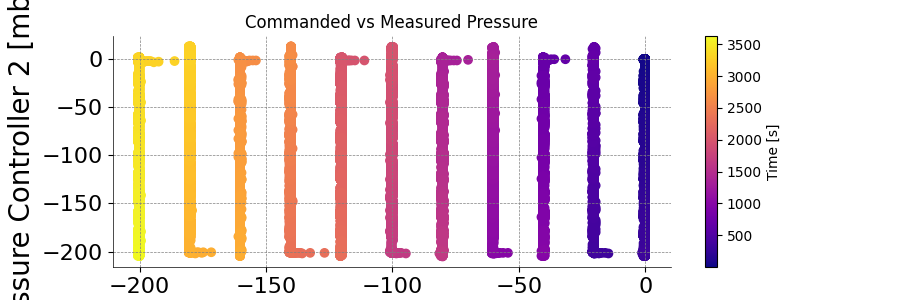
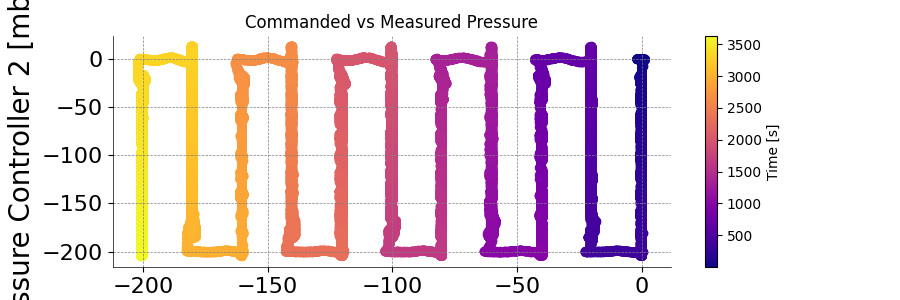
new graphs for asym

diff --git a/Modules/Plot_Client_FN.py b/Modules/Plot_Client_FN.py
@@ -2001,17 +2001,26 @@ def join_all_dp_quadrants(quadrant_1, quadrant_2, quadrant_3, quadrant_4, dp_sen
 
 
 if __name__ == "__main__":
-    folder_path = r'ASYM_CV2_FN-1_8-TUBE_-+_pt_30_stp20'
+    folder_path = r'ASYM_CV2_FN-1_8-TUBE_--_pt_30_stp20'
     plot = Plot(folder_path)
 
-    # quadrant_1 = Plot('FN-1_8-TUBE_++_pt_30')
-    # quadrant_2 = Plot('FN-1_8-TUBE_+-_pt_30')
-    # quadrant_3 = Plot('FN-1_8-TUBE_-+_pt_30')
-    # quadrant_4 = Plot('FN-1_8-TUBE_--_pt_30')
+    quadrant_1 = Plot('ASYM_CV2_FN-1_8-TUBE_--_pt_30_stp20')
+    quadrant_2 = Plot('ASYM_CV2_FN-1_8-TUBE_+-_pt_30_stp20')
+    quadrant_3 = Plot('ASYM_CV2_FN-1_8-TUBE_-+_pt_30_stp20')
+    quadrant_4 = Plot('ASYM_CV2_FN-1_8-TUBE_++_pt_30_stp20')
 
     save = True
     moving_average = 0
     show_plot = True
+# 7. Plot all flow measurements in one graph
+    join_all_dp_quadrants(quadrant_1, quadrant_2, quadrant_3,
+                          quadrant_4, dp_sensor=2, save=save, show_plot=show_plot)
+    # join_all_dp_3D_logic1(quadrant_1, quadrant_2, quadrant_3,
+    #                       quadrant_4, dp_sensor=2, save=save, show_plot=show_plot)
+
+    # save = True
+    # moving_average = 0
+    # show_plot = True
     # join_all_dp_3D_logic1(quadrant_1, quadrant_2, quadrant_3,
     #                       quadrant_4, dp_sensor=2, save=save, show_plot=show_plot)
 
@@ -2020,45 +2029,36 @@ if __name__ == "__main__":
     # quadrant_3 = Plot('CV2_FN-1_8-TUBE_-+_pt_30_stp20')
     # quadrant_4 = Plot('CV2_FN-1_8-TUBE_--_pt_30_stp20')
 
-    # save = True
-    # moving_average = 0
-    # show_plot = True
-    # join_all_dp_3D_logic1(quadrant_1, quadrant_2, quadrant_3,
-    #                       quadrant_4, dp_sensor=2, save=save, show_plot=show_plot)
+# # 1. plot the recorded absolute pressures
+#     plot.double_pressure_controller_command_overview(
+#         save, moving_average, nb_controllers=2, show_plot=show_plot)
 
-# 1. plot the recorded absolute pressures
-    plot.double_pressure_controller_command_overview(
-        save, moving_average, nb_controllers=2, show_plot=show_plot)
+# # 2. get the calibration offset
+#     plot.calibration_mean = plot.get_channels_calibration_offset_logic1(
+#         save=save, show_plot=show_plot)
 
-# 2. get the calibration offset
-    plot.calibration_mean = plot.get_channels_calibration_offset_logic1(
-        save=save, show_plot=show_plot)
+# # (2. Visualization of calibration mean in original plot)
+#     plot.channels_vs_time_logic1(save, moving_average=0,
+#                                  plot_calibration_mean=True, show_plot=show_plot)
+#     # check that the subratction was done correctly
 
-# (2. Visualization of calibration mean in original plot)
-    plot.channels_vs_time_logic1(save, moving_average=0,
-                                 plot_calibration_mean=True, show_plot=show_plot)
-    # check that the subratction was done correctly
+# # 3. Zero the pressure
+#     plot.zero_v_difference = plot.get_zero_voltage_difference_logic1(
+#         save, show_plot=show_plot)
 
-# 3. Zero the pressure
-    plot.zero_v_difference = plot.get_zero_voltage_difference_logic1(
-        save, show_plot=show_plot)
+# # 4. Calculate the pressure with calibrated voltages offet
+#     plot.create_pressure_7_2_25_25_v_time_csv_logic1()
+#     # plot.create_pressure_7_25_25_25_v_time_csv()
+#     # plot.create_pressure_7_2_25_25_v_time_csv()
 
-# 4. Calculate the pressure with calibrated voltages offet
-    plot.create_pressure_7_2_25_25_v_time_csv_logic1()
-    # plot.create_pressure_7_25_25_25_v_time_csv()
-    # plot.create_pressure_7_2_25_25_v_time_csv()
+# # 5 Plot the pressure vs time
+#     plot.pressure_vs_time_7_2_25_25_logic1(
+#         save, moving_average=0, show_plot=show_plot)
 
-# 5 Plot the pressure vs time
-    plot.pressure_vs_time_7_2_25_25_logic1(
-        save, moving_average=0, show_plot=show_plot)
-
-# 6. Plot interpolated difference in pressure
-    plot.p1_p2_dp(save, dp_sensor=2, show_plot=show_plot)
+# # 6. Plot interpolated difference in pressure
+#     plot.p1_p2_dp(save, dp_sensor=2, show_plot=show_plot)
     # plot.p1_p2_dp_3D(save)
 
-# 7. Plot all flow measurements in one graph
-#    join_all_dp_quadrants(quadrant_1, quadrant_2, quadrant_3,
-#     quadrant_4, dp_sensor=7, save=save, show_plot=show_plot)
 
 # 8. 3D plot all the quadrants
 #     join_all_dp_3D_logic1(quadrant_1, quadrant_2, quadrant_3,
